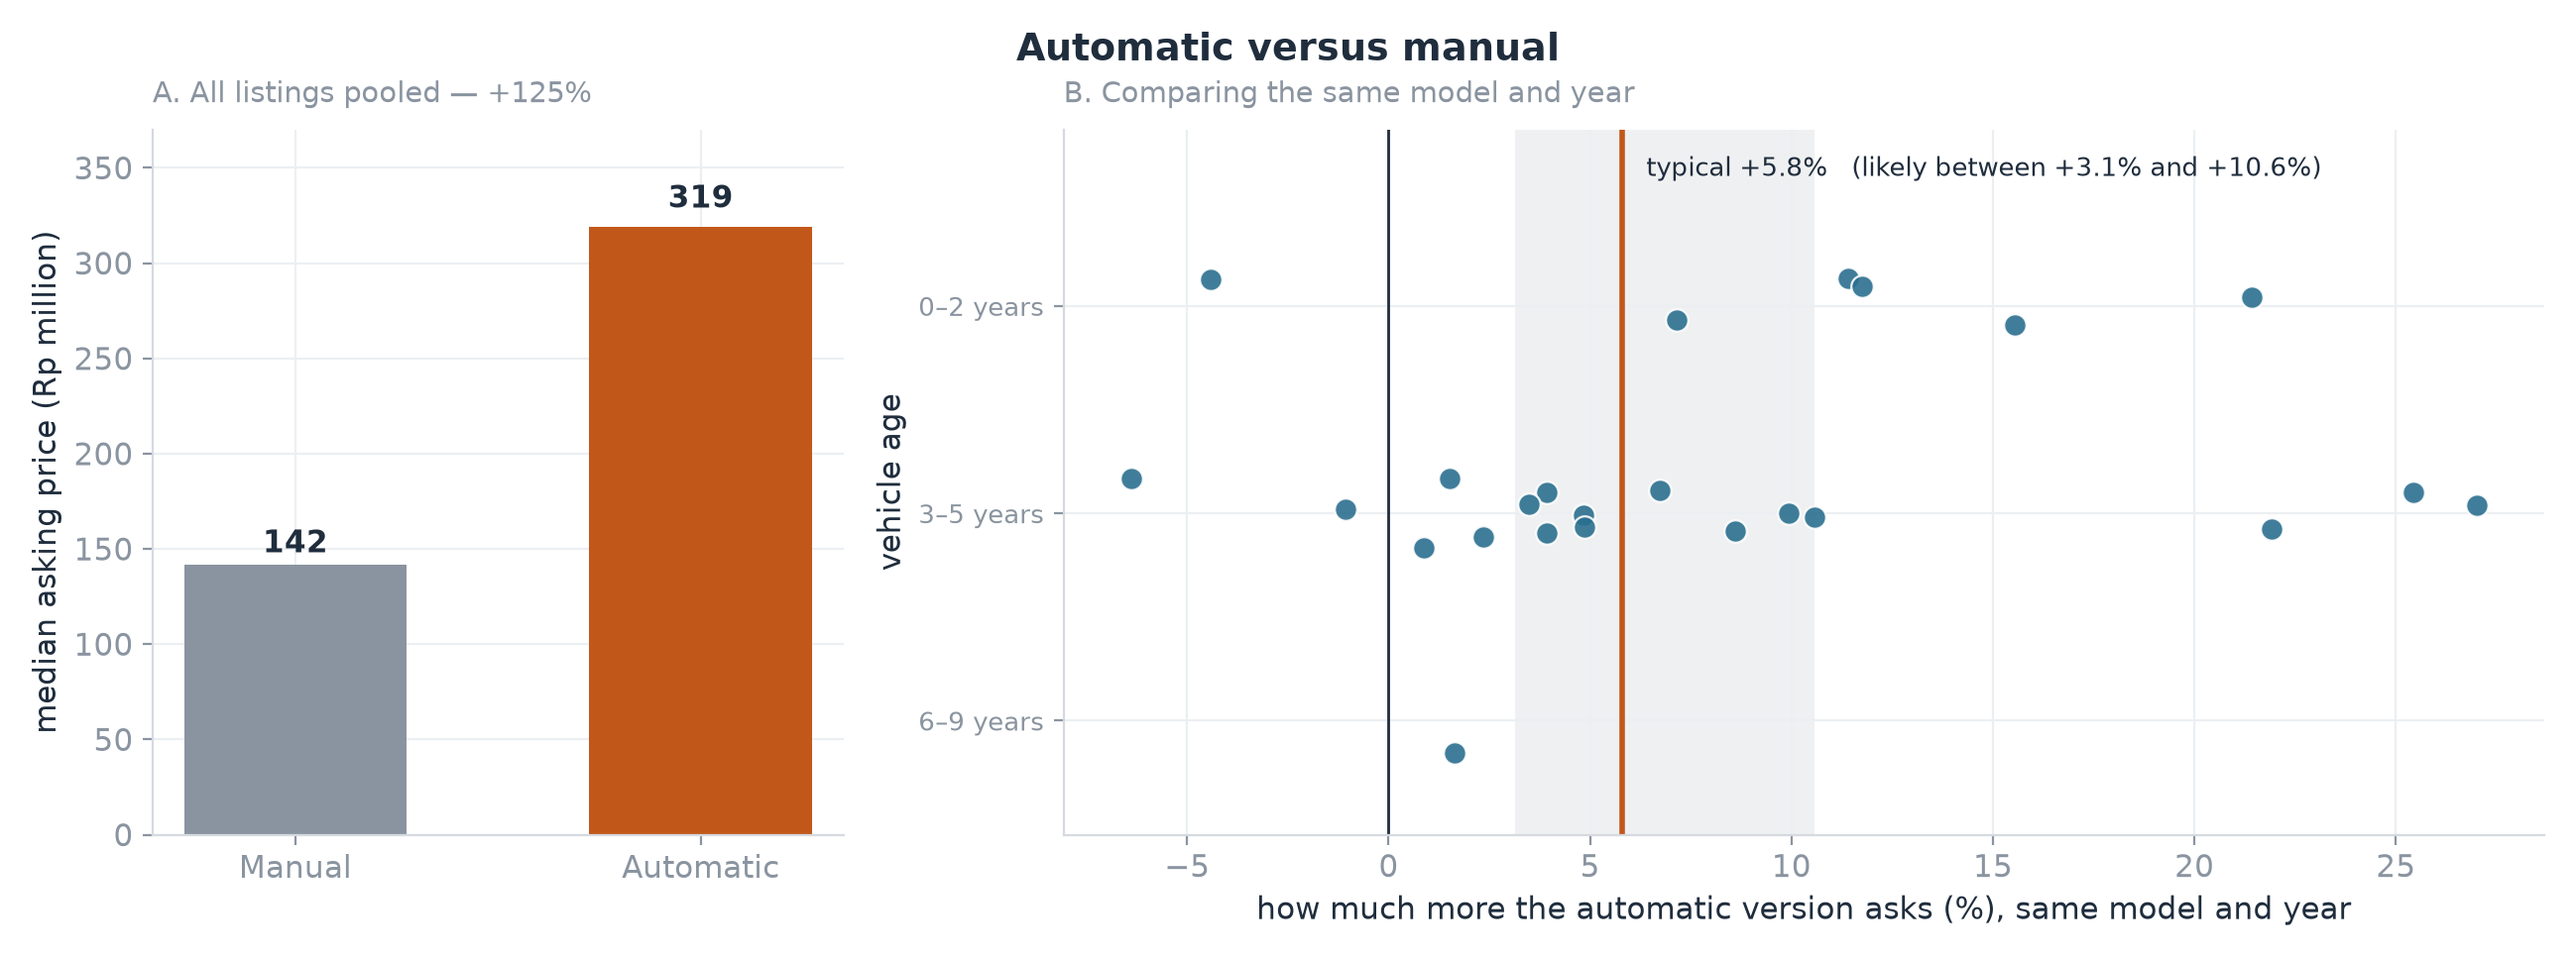
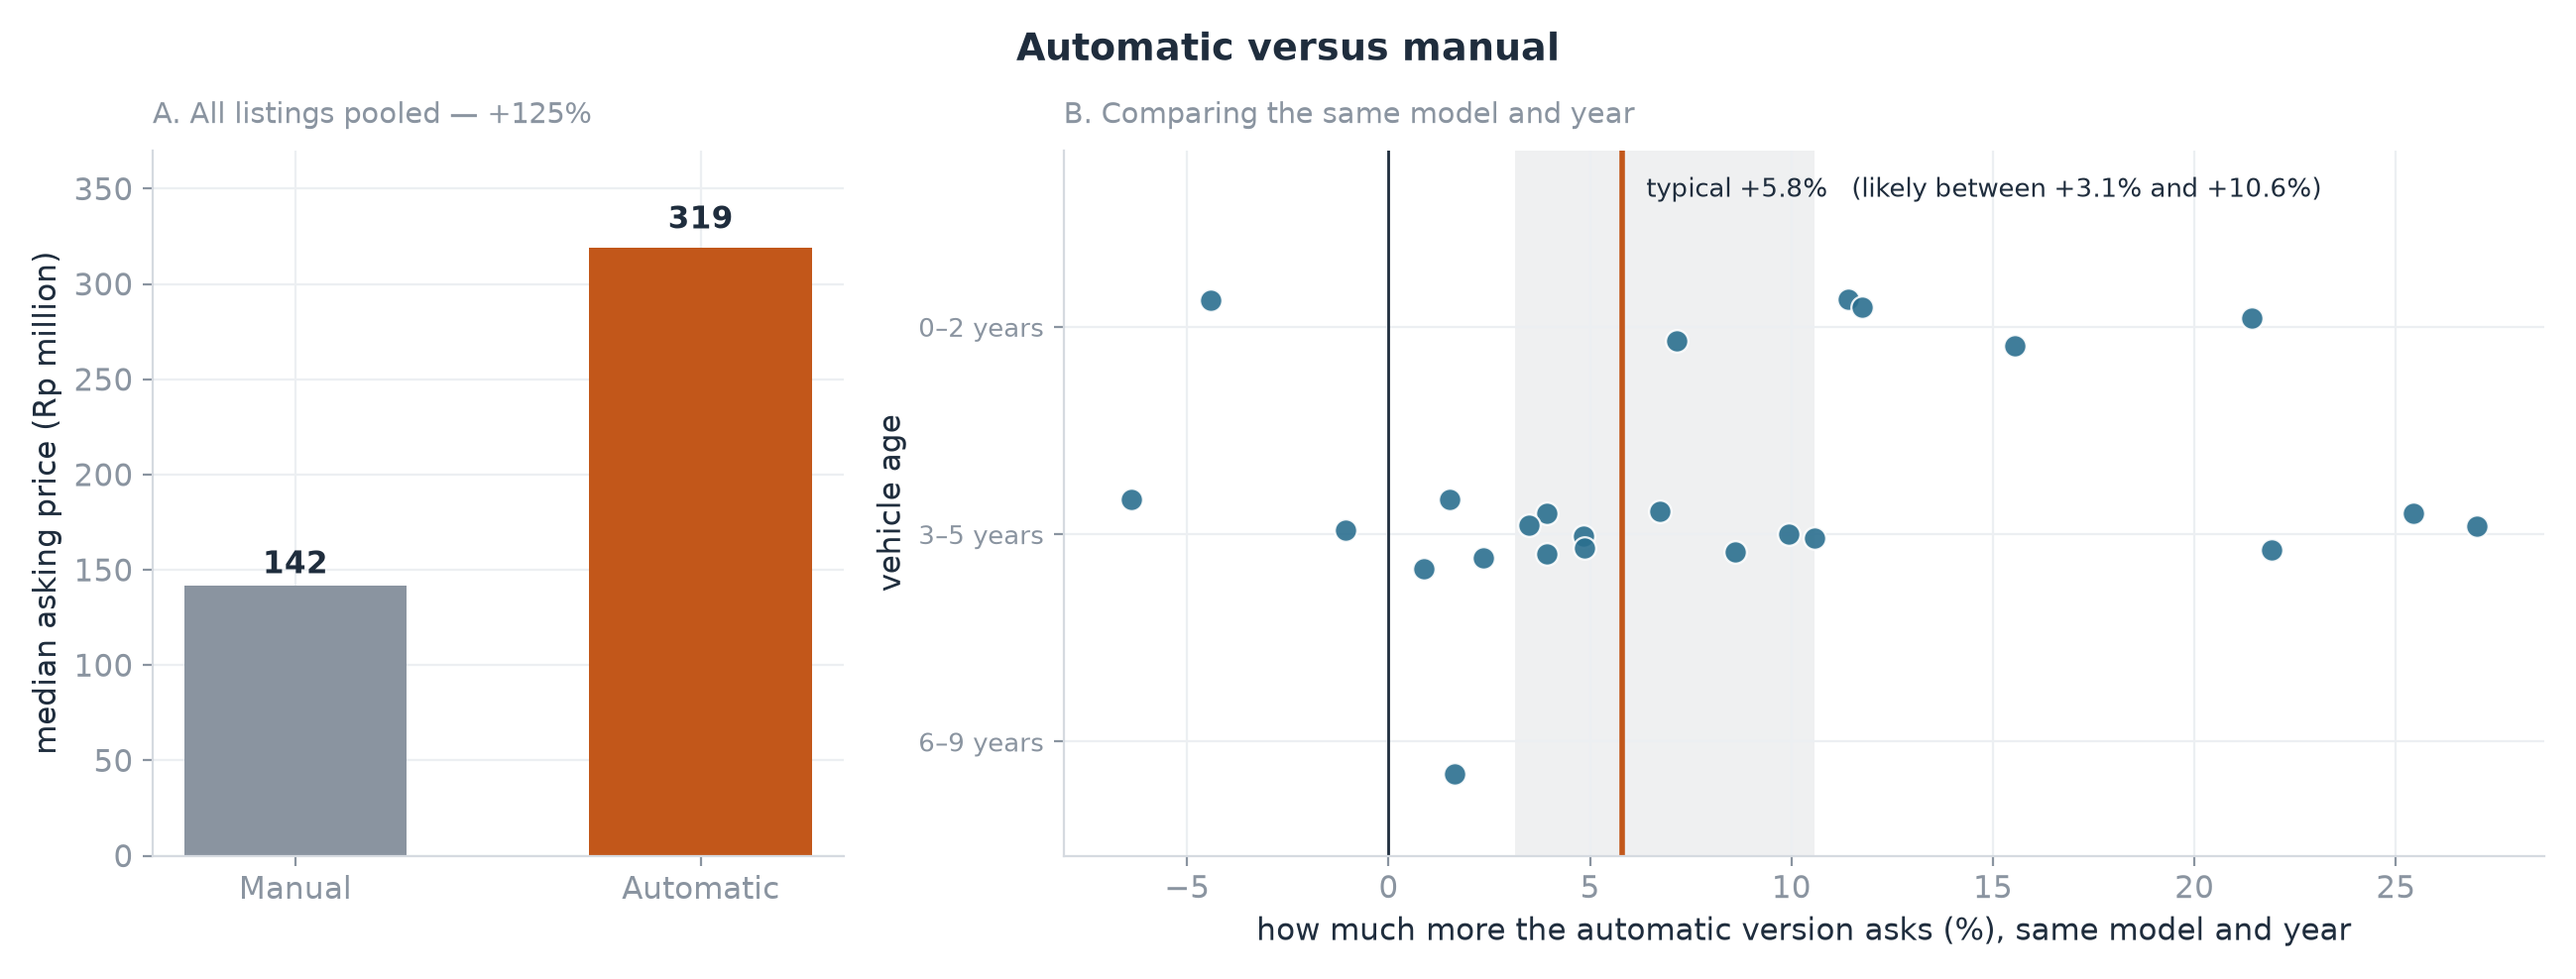
Widen the title gap and align the landing card with the case study
The figure title now sits further above the panel labels on every chart. The case study says gradient boosting rather than a generic regression, the landing card says brand instead of badge and names the market, and the card carries the same four findings with the same numbers and labels as the page.

diff --git a/index.html b/index.html
@@ -158,20 +158,21 @@
           </article>
 
           <article class="project-card">
-            <p class="case-kicker">Regression &middot; Indonesian used cars</p>
+            <p class="case-kicker">Regression &middot; Indonesian used car market</p>
             <h3 class="project-card-title">
               What the Indonesian used-car market actually charges for
             </h3>
             <p class="project-card-summary">
               Scraped 12,000 live listings into 10,484 unique cars and priced them with a
-              regression model. Once model and year are held constant, most of what buyers
-              think they are paying for &mdash; the badge, the odometer, the city &mdash;
-              largely disappears.
+              gradient-boosting model. Once model and year are held constant, most of what
+              buyers think they are paying for &mdash; the brand, the odometer, the city
+              &mdash; largely disappears.
             </p>
-            <ul class="project-card-stats">
-              <li><strong>10,484</strong><span>cars analysed</span></li>
-              <li><strong>3&times;</strong><span>faster loss at BMW than Suzuki</span></li>
-              <li><strong>4%</strong><span>what high mileage costs</span></li>
+            <ul class="project-card-stats project-card-stats--four">
+              <li><strong>10,484</strong><span>Cars analysed</span></li>
+              <li><strong>3&times;</strong><span>BMW loses value three times faster than Suzuki</span></li>
+              <li><strong>5.8%</strong><span>Extra price of an automatic, same model and year</span></li>
+              <li><strong>4.1%</strong><span>Discount on a high-mileage version of the same car</span></li>
             </ul>
             <a class="project-card-link" href="projects/02-used-car-market/index.html">
               Read the case study <span aria-hidden="true">&rarr;</span>

diff --git a/projects/02-used-car-market/index.html b/projects/02-used-car-market/index.html
@@ -41,7 +41,7 @@
 
             <p class="case-summary">
               I scraped 12,000 live listings from Mobil123 into 10,484 unique cars, then
-              priced them with a regression model that holds model and year constant. The
+              priced them with a gradient-boosting model that holds model and year constant. The
               question was not <em>what does a used car cost</em> &mdash; it was
               <em>what does the market actually charge for</em>.
             </p>

diff --git a/style.css b/style.css
@@ -1078,3 +1078,11 @@ strong {
 .case > .case-figure:last-of-type {
   margin-bottom: 8px;
 }
+
+
+/* A card that carries four findings lays them out two by two. */
+.project-card-stats--four {
+  display: grid;
+  grid-template-columns: repeat(2, minmax(0, 1fr));
+  gap: 14px 20px;
+}

diff --git a/projects/02-used-car-market/eda.py b/projects/02-used-car-market/eda.py
@@ -101,7 +101,7 @@ def add_title(fig, text: str, gap: float | None = None) -> None:
     if gap is None:
         # Panels that carry their own title need more air under the figure
         # title than a single bare plot does.
-        gap = 0.030 if any(ax.get_title() for ax in fig.axes) else 0.012
+        gap = 0.075 if any(ax.get_title() for ax in fig.axes) else 0.035
     fig.text((left + right) / 2, top + gap, text, ha="center", va="bottom",
              fontsize=13.5, fontweight="bold")
 

diff --git a/projects/02-used-car-market/model.py b/projects/02-used-car-market/model.py
@@ -127,7 +127,7 @@ def add_title(fig, text: str, gap: float | None = None) -> None:
     if gap is None:
         # Panels that carry their own title need more air under the figure
         # title than a single bare plot does.
-        gap = 0.030 if any(ax.get_title() for ax in fig.axes) else 0.012
+        gap = 0.075 if any(ax.get_title() for ax in fig.axes) else 0.035
     fig.text((left + right) / 2, top + gap, text, ha="center", va="bottom",
              fontsize=13.5, fontweight="bold")
 
